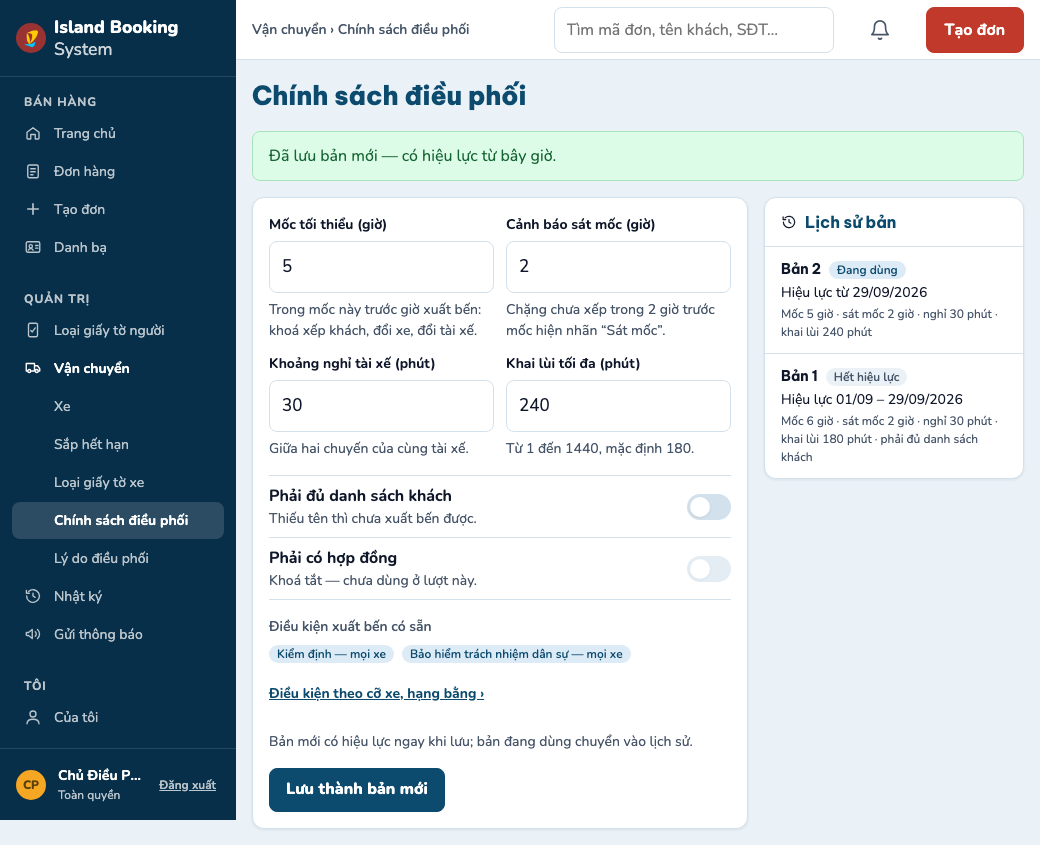
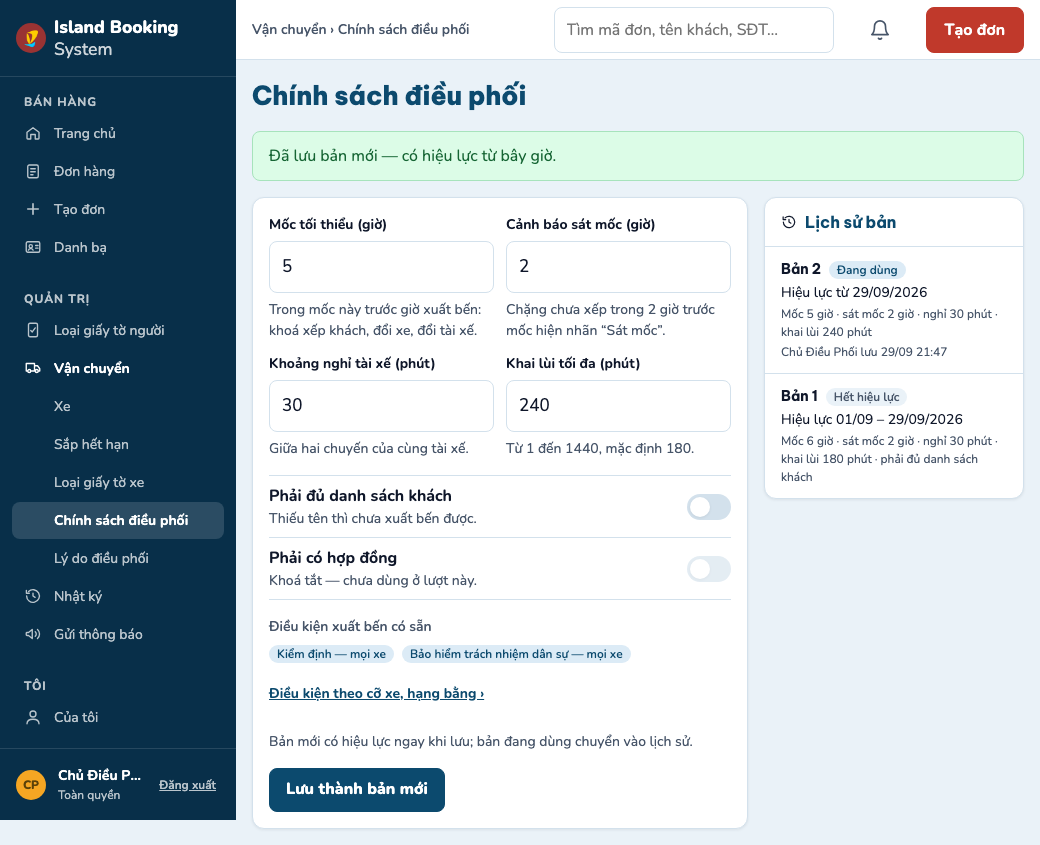
R-P23: lịch sử bản chính sách có "ai lưu" (theo bản vẽ 8a)
Vì sao: điều phối trả lời Q-B-1 — lịch sử bản có "ai lưu" như bản vẽ; máy chủ đã thêm
DispatchPolicyDto.nguoiLuu (gộp ở 61c53be). Dòng "<tên> lưu dd/mm HH:MM" (giờ VN của lúc
lưu = lúc hiệu lực); nguoiLuu null (bản gieo) → không có dòng; tên đi qua maskLongDigits
(lưới an toàn R-P11). Bài thuần đỏ trước, xanh sau; kịch bản B8 bước 4 khẳng định dòng
của bản vừa lưu và bản gieo không có dòng (14/14).

Claude-Session: https://claude.ai/code/session_012uzHHEgA3ZBQkvhnpB7ynZ

Changed region(s): [[0.7385, 0.4, 0.9846, 0.5846]]

diff --git a/src/shared/chinh-sach-hien-thi.ts b/src/shared/chinh-sach-hien-thi.ts
@@ -5,6 +5,7 @@
 // - Lý do: nhóm và nhãn nhóm lấy từ `NHAN_NHOM_LY_DO` (một nguồn với nhật ký); mã lý do mới SINH từ nhãn (màn hình không lộ mã — bản vẽ 8d chỉ có ô "Lý do mới").
 import type { DepartureRuleCreateRequest, DepartureRuleDto, DispatchPolicyCreateRequest, DispatchPolicyDto, LicenseCapacityCreateRequest, TripReasonDto } from "./contracts.ts";
 import { NHAN_NHOM_LY_DO, NHOM_LY_DO, type NhomLyDo } from "./dieu-phoi-kieu.ts";
+import { maskLongDigits } from "./text-guards.ts";
 import { msToVnLocal } from "./vn-date.ts";
 
 // ---- thời lượng ----------------------------------------------------------------------------------------------------------------------------------------------
@@ -100,6 +101,13 @@ export interface DongLichSu {
   tone: "unit" | "muted" | "warn";
   hieuLuc: string;
   tomTat: string;
+  /** R-P23: "<tên> lưu dd/mm HH:MM" (bản vẽ 8a "Lưu Tuấn Vũ lưu 24/09 16:20"); null = DTO không có người lưu (bản gieo) → màn không hiện dòng. */
+  nguoiLuu: string | null;
+}
+/** Mốc ISO → "dd/mm HH:MM" giờ VN (lúc lưu một bản). */
+function luuLuc(iso: string): string {
+  const { date, time } = msToVnLocal(Date.parse(iso));
+  return `${date.slice(8, 10)}/${date.slice(5, 7)} ${time}`;
 }
 /** Mốc ISO → ngày dân sự VN "dd/mm/yyyy". */
 function ngayVnTuIso(iso: string): { dm: string; y: string } {
@@ -108,7 +116,7 @@ function ngayVnTuIso(iso: string): { dm: string; y: string } {
 }
 /**
  * Lịch sử bản chính sách (máy chủ trả mới trước). Khoảng hiệu lực: bản cũ kết thúc đúng lúc bản kế tiếp bắt đầu (máy chủ đặt hiệu lực = lúc lưu) → ghi
- * "Hiệu lực <ngày bắt đầu> – <ngày bản sau bắt đầu>" theo ngày VN. DTO không có người lưu → không có dòng "… lưu lúc …" của bản vẽ (hỏi điều phối, Q-B).
+ * "Hiệu lực <ngày bắt đầu> – <ngày bản sau bắt đầu>" theo ngày VN. "Ai lưu" (R-P23): tên + lúc lưu (= lúc hiệu lực); tên đi qua `maskLongDigits`.
  */
 export function dongLichSuChinhSach(history: readonly DispatchPolicyDto[]): DongLichSu[] {
   const hienHanh = history.find((p) => p.current) ?? null;
@@ -129,6 +137,7 @@ export function dongLichSuChinhSach(history: readonly DispatchPolicyDto[]): Dong
       tone: p.current ? "unit" : chuaToi ? "warn" : "muted",
       hieuLuc,
       tomTat: tomTatChinhSach(p),
+      nguoiLuu: p.nguoiLuu ? `${maskLongDigits(p.nguoiLuu)} lưu ${luuLuc(p.validFrom)}` : null,
     };
   });
 }

diff --git a/src/shared/chinh-sach-hien-thi.test.ts b/src/shared/chinh-sach-hien-thi.test.ts
@@ -11,7 +11,7 @@ import type { DepartureRuleDto, DispatchPolicyDto, TripReasonDto } from "./contr
 
 const chinhSach = (o: Partial<DispatchPolicyDto> = {}): DispatchPolicyDto => ({
   id: "p1", minLeadMinutes: 360, warnLeadMinutes: 120, restMinutes: 30, requireManifest: true, requireContract: false, proxyBackdateMaxMinutes: 180,
-  validFrom: "2026-09-01T00:00:00.000Z", current: true, ...o,
+  validFrom: "2026-09-01T00:00:00.000Z", current: true, nguoiLuu: null, ...o,
 });
 const form = (o: Partial<Parameters<typeof docFormChinhSach>[0]> = {}) => ({ mocGio: "6", satMocGio: "2", nghiPhut: "30", khaiLuiPhut: "180", duDanhSach: true, ...o });
 
@@ -99,7 +99,13 @@ test("dongLichSuChinhSach: đánh số từ bản cũ nhất; bản đang dùng 
     ["a", "Bản 1", "Hết hiệu lực", "muted", "Hiệu lực 01/09 – 25/09/2026"],
   ]);
   assert.equal(dong[2]!.tomTat, "Mốc 4 giờ · sát mốc 2 giờ · nghỉ 30 phút · khai lùi 180 phút · phải đủ danh sách khách");
-  assert.ok(dong.every((d) => !("nguoiLuu" in d)));
+  // R-P23 (điều phối trả lời Q-B-1): "ai lưu" — "<tên> lưu dd/mm HH:MM" (giờ VN của lúc lưu = lúc hiệu lực); null (bản gieo) → không có dòng.
+  assert.deepEqual(dong.map((d) => d.nguoiLuu), [null, null, null]);
+  const coTen = dongLichSuChinhSach([chinhSach({ validFrom: "2026-09-24T09:20:00.000Z", nguoiLuu: "Lưu Tuấn Vũ" }), chinhSach({ id: "g", validFrom: "2026-09-01T00:00:00.000Z", current: false })]);
+  assert.equal(coTen[0]!.nguoiLuu, "Lưu Tuấn Vũ lưu 24/09 16:20");
+  assert.equal(coTen[1]!.nguoiLuu, null);
+  // Tên lỡ lẫn dãy số (DTO sai) → che (lưới an toàn R-P11).
+  assert.equal(dongLichSuChinhSach([chinhSach({ validFrom: "2026-09-24T09:20:00.000Z", nguoiLuu: "Hoa 0913552108" })])[0]!.nguoiLuu, "Hoa •••••••••• lưu 24/09 16:20");
   assert.deepEqual(dongLichSuChinhSach([]), []);
   // Khác năm: ghi đủ năm ở cả hai đầu.
   const namKhac = dongLichSuChinhSach([chinhSach({ id: "y", validFrom: "2027-01-02T01:00:00.000Z" }), chinhSach({ id: "x", validFrom: "2026-12-20T01:00:00.000Z", current: false })]);

diff --git a/web/chinh-sach-dieu-phoi.ts b/web/chinh-sach-dieu-phoi.ts
@@ -113,6 +113,7 @@ function dongDom(d: DongLichSu): HTMLElement {
     h("span", { class: "dp-hist-name" }, h("strong", null, d.ten), h("span", { class: `chip chip-${d.tone}` }, d.trangThai)),
     h("span", null, d.hieuLuc),
     h("span", { class: "dp-hist-sub" }, d.tomTat),
+    d.nguoiLuu ? h("span", { class: "dp-hist-sub", "data-nguoi-luu": "1" }, d.nguoiLuu) : null,
   );
 }
 /** Các bản đã lưu, mới trước (máy chủ trả sẵn thứ tự). */
